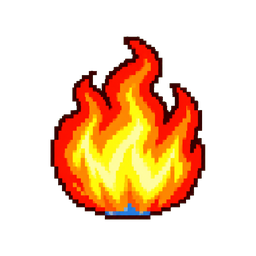
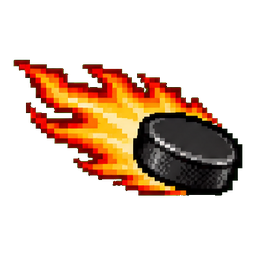
Contender badge: flaming puck (user art) replaces the flame
Cut from the user's sheet with the full tail (it crossed the neighbouring
column's line, so a plain cell crop clipped it) and padded to fill the
circle's width.

diff --git a/src/lib/badgeArt.ts b/src/lib/badgeArt.ts
@@ -3,8 +3,8 @@
 // emoji-to-pixel-art pass. Each PNG was drawn for this 84px circle, keyed off a
 // green screen, cropped to the glyph and centred in a 256px square so 2x and 3x
 // phone screens stay crisp. Glyph size is set by canvas padding, not CSS: the
-// cup is padded 1.04x its glyph; crown and medal 1.22x; tools, bubbles, skate
-// and flame 1.40x; the broken stick 1.42x, so the busier glyphs sit smaller in the
+// cup is padded 1.04x its glyph; the flaming puck 1.12x (wide and low, so it fills the circle's width);
+// crown and medal 1.22x; tools, bubbles and skate 1.40x; the broken stick 1.42x, so the busier glyphs sit smaller in the
 // circle (user sizing, 2026-09-14). Every tier has one; the emoji in each team's flavor pack is now only used by the
 // share text and the inline 'Predicted standing' lines.
 //
